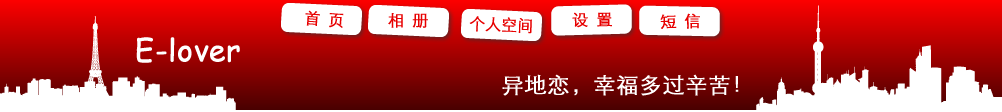
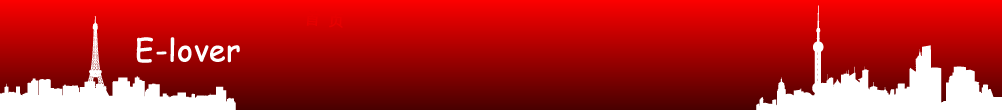
modify some pics

Changed region(s): [[0.2784, 0.0268, 0.7425, 0.4018], [0.495, 0.6696, 0.7425, 0.8571]]

diff --git a/public/stylesheets/core.css b/public/stylesheets/core.css
@@ -6,17 +6,20 @@ body{
 	
 }
 #wrapper{
-	width: 1002px;
-	min-height: 500px;
-	margin: 0px auto; 
-	
-	text-align: left;
+	text-align: center; 
 }
 #header{
-	 background:url("/images/public/bg0.png") no-repeat;
-	 height: 112px;
+	background:url("/images/public/bg0.png") no-repeat top center;
+	height: 112px;
 }
 #body{
-	margin-top: 10px; 
+	margin: 10px auto 0px auto; 
+	width: 1002px;min-height: 490px;
 	background-color:  #ffffff;
+	text-align: left;
+	background-image: url(/images/public/design_bg0.png);
+}
+#footer{
+	width: 100%;height: 30px;
+	background:url("/images/public/footer0.png") repeat-x;
 }
